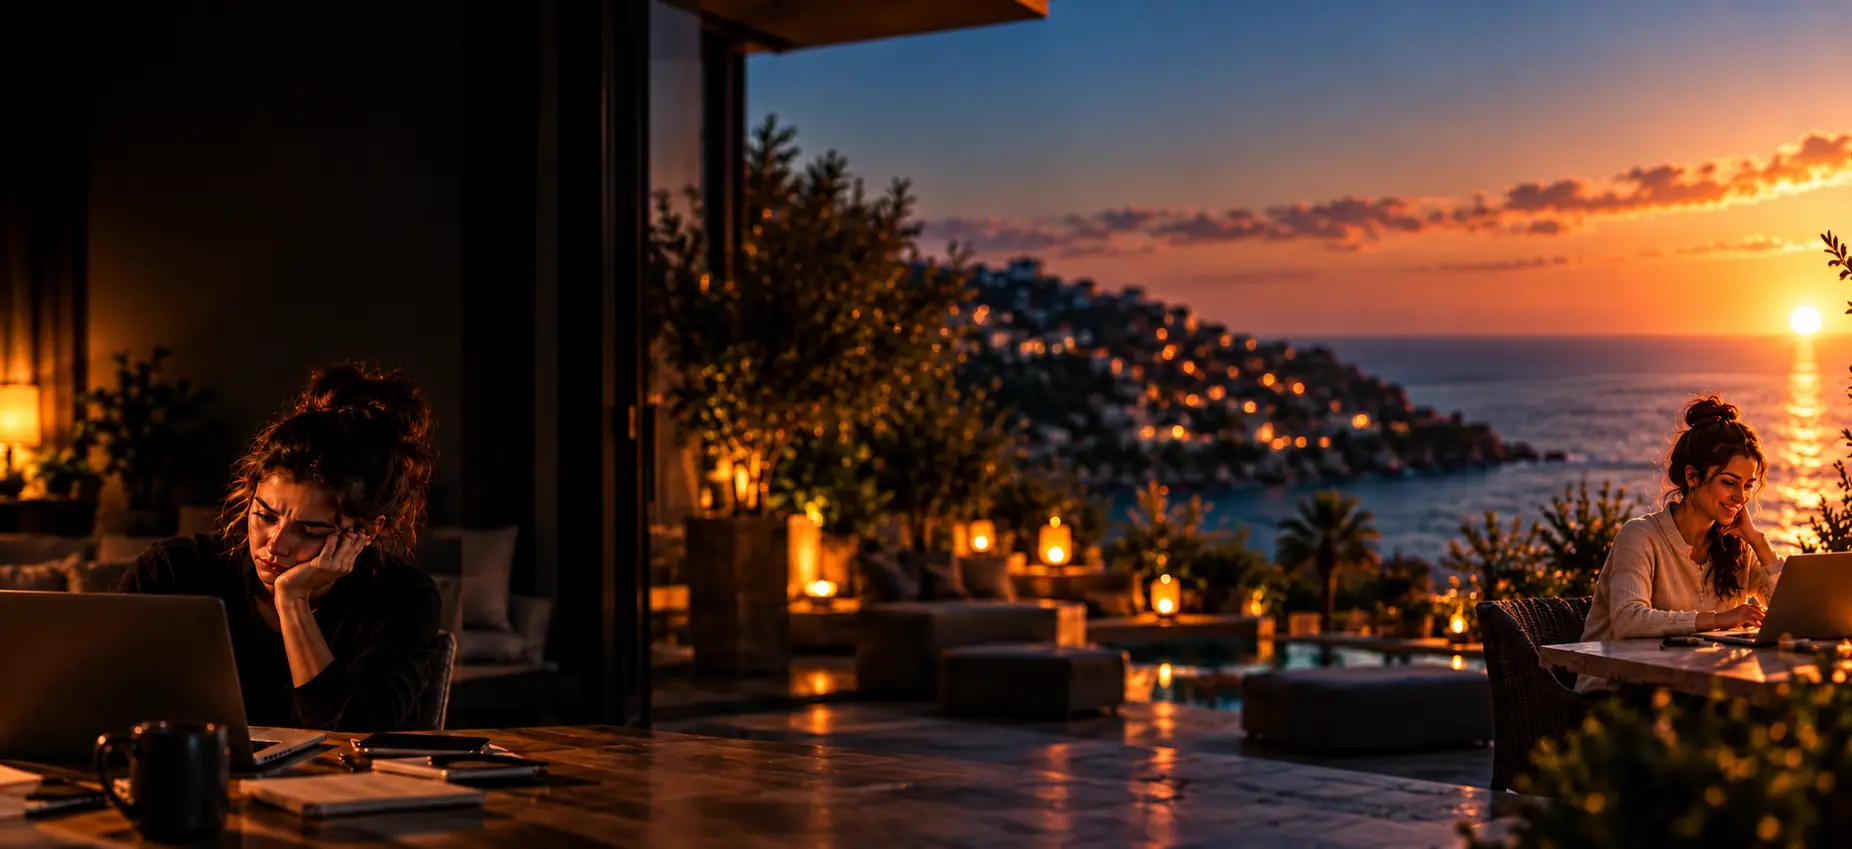
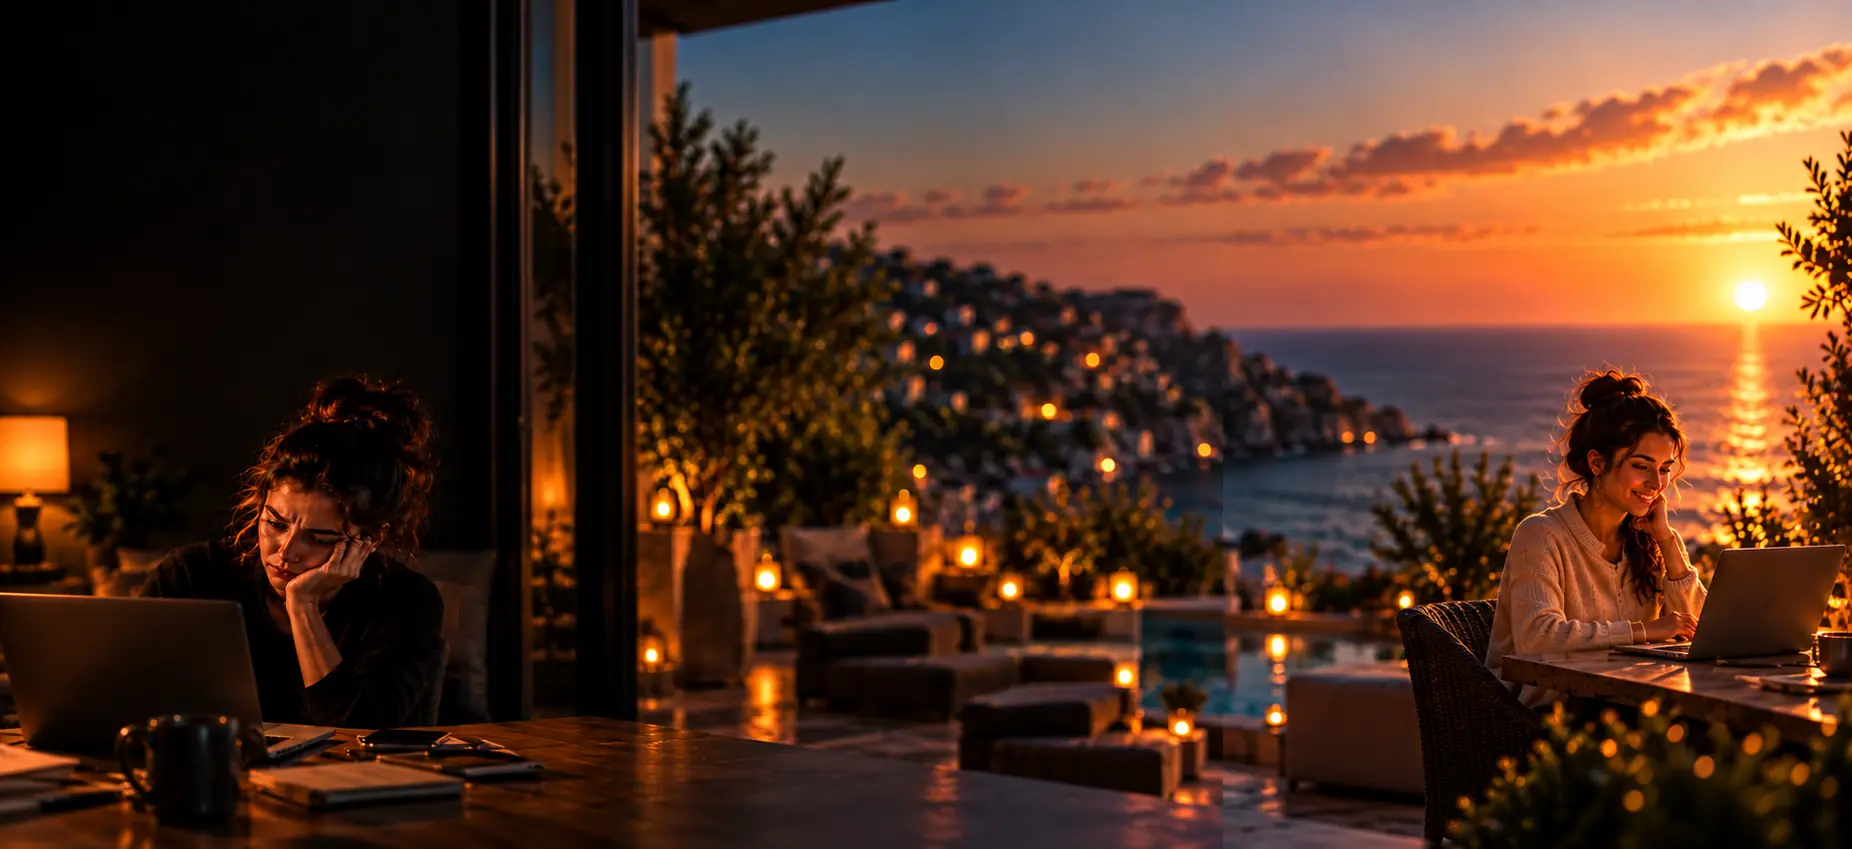
coaching v3: donde se cae con las dos chicas a la vista y esquema mas estrecho

diff --git a/src/coaching/index.html b/src/coaching/index.html
@@ -819,13 +819,13 @@
     /* ---------- 02 · DONDE SE CAE ---------- */
     .d3 { background: #05080D; }
     .d3 .foto { background-image: url(/assets/coach3-cae.webp); }
-    .d3 .foto { background-position: 100% 70%; }  /* fondo nuevo 2026-10-07: la chica agobiada bajo el texto */
+    .d3 .foto { background-position: 100% 60%; }  /* fondo nuevo 2026-10-07: la chica agobiada bajo el texto */
     .d3 .velo { background: linear-gradient(90deg, rgba(4,6,10,.55) 0%, rgba(4,6,10,.25) 26%, rgba(4,6,10,0) 42%); }
     .d3 .caja { display: grid; grid-template-columns: minmax(0, 420px) minmax(0, 1fr); gap: clamp(20px, 2vw, 32px); padding-right: max(22px, 3vw) !important; align-items: start; padding-top: 44px; padding-bottom: 36px; }
     .d3-txt { padding-top: 22px; }
     .d3 .t3, .x3 .t3 { font-size: clamp(30px, 2.65vw, 43px); }
 
-    .dc { container-type: inline-size; width: min(100%, 700px); justify-self: start; }
+    .dc { container-type: inline-size; width: min(100%, 600px); justify-self: start; }
     /* Anais: no puede verse mas grande que el hero. El esquema manda la
        altura de la seccion, asi que se limita a 700 de ancho (unos 550 de alto). */
     .dc-in { --u: calc(100cqw / 910); position: relative; }
